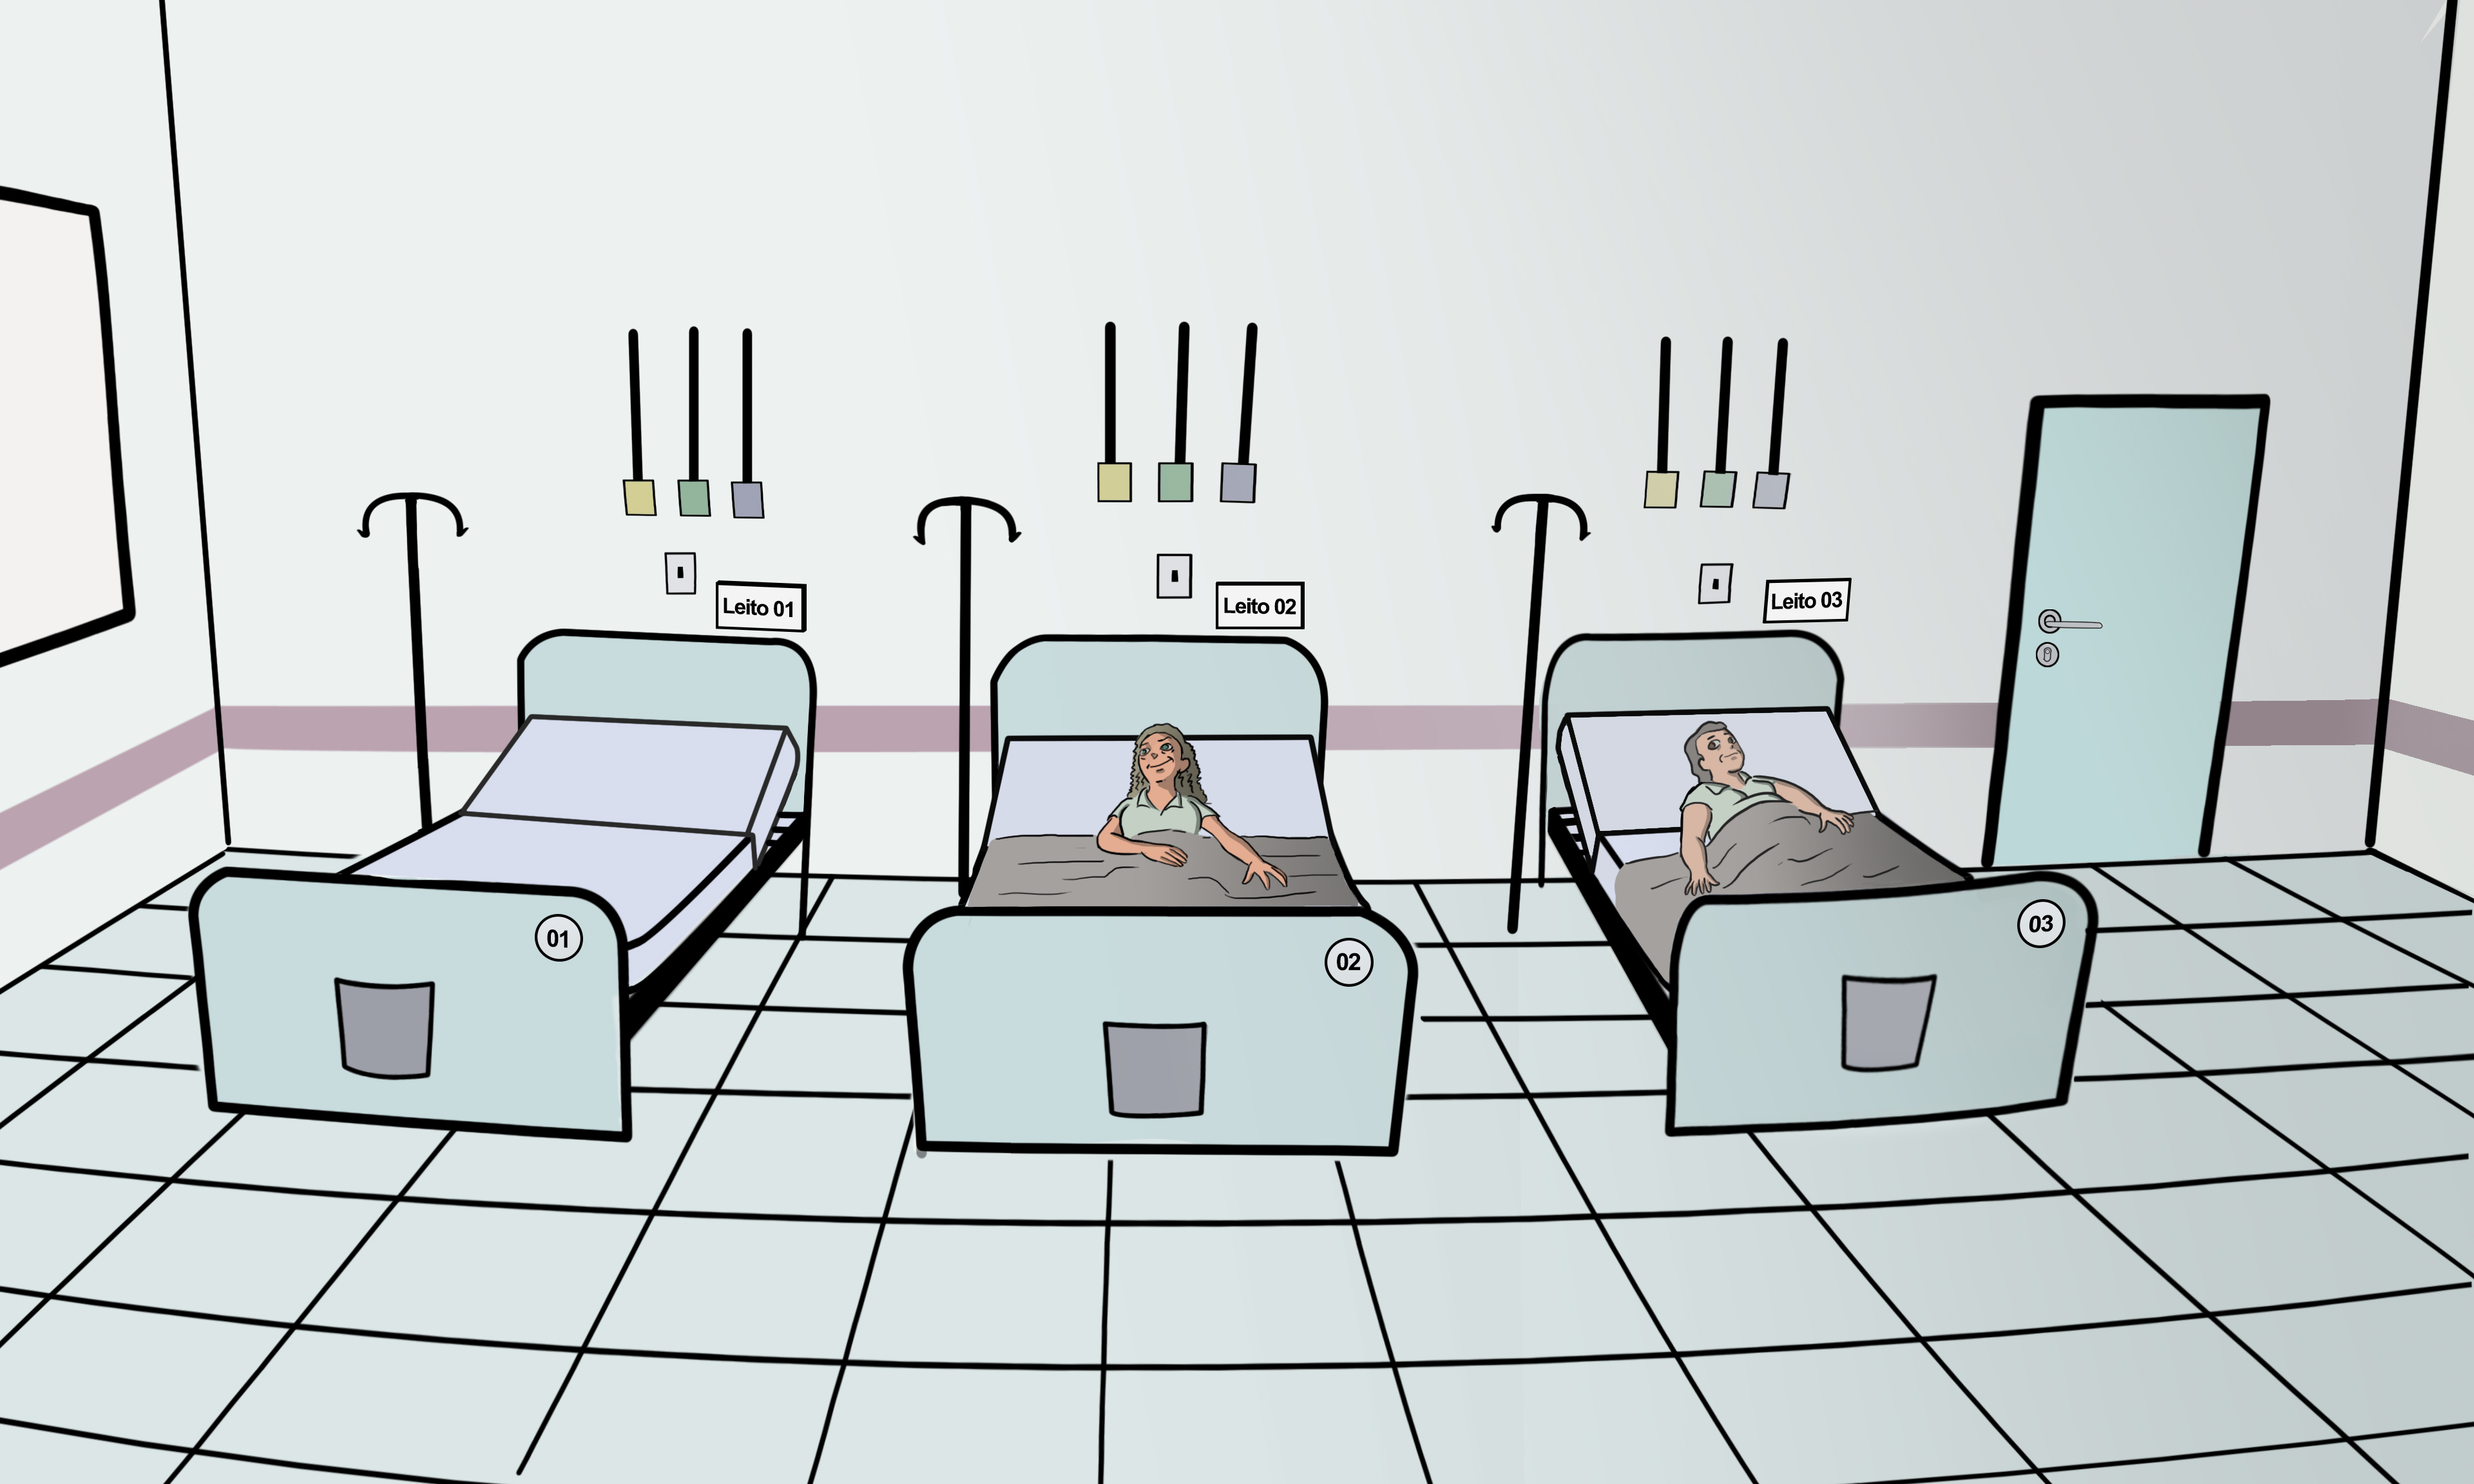
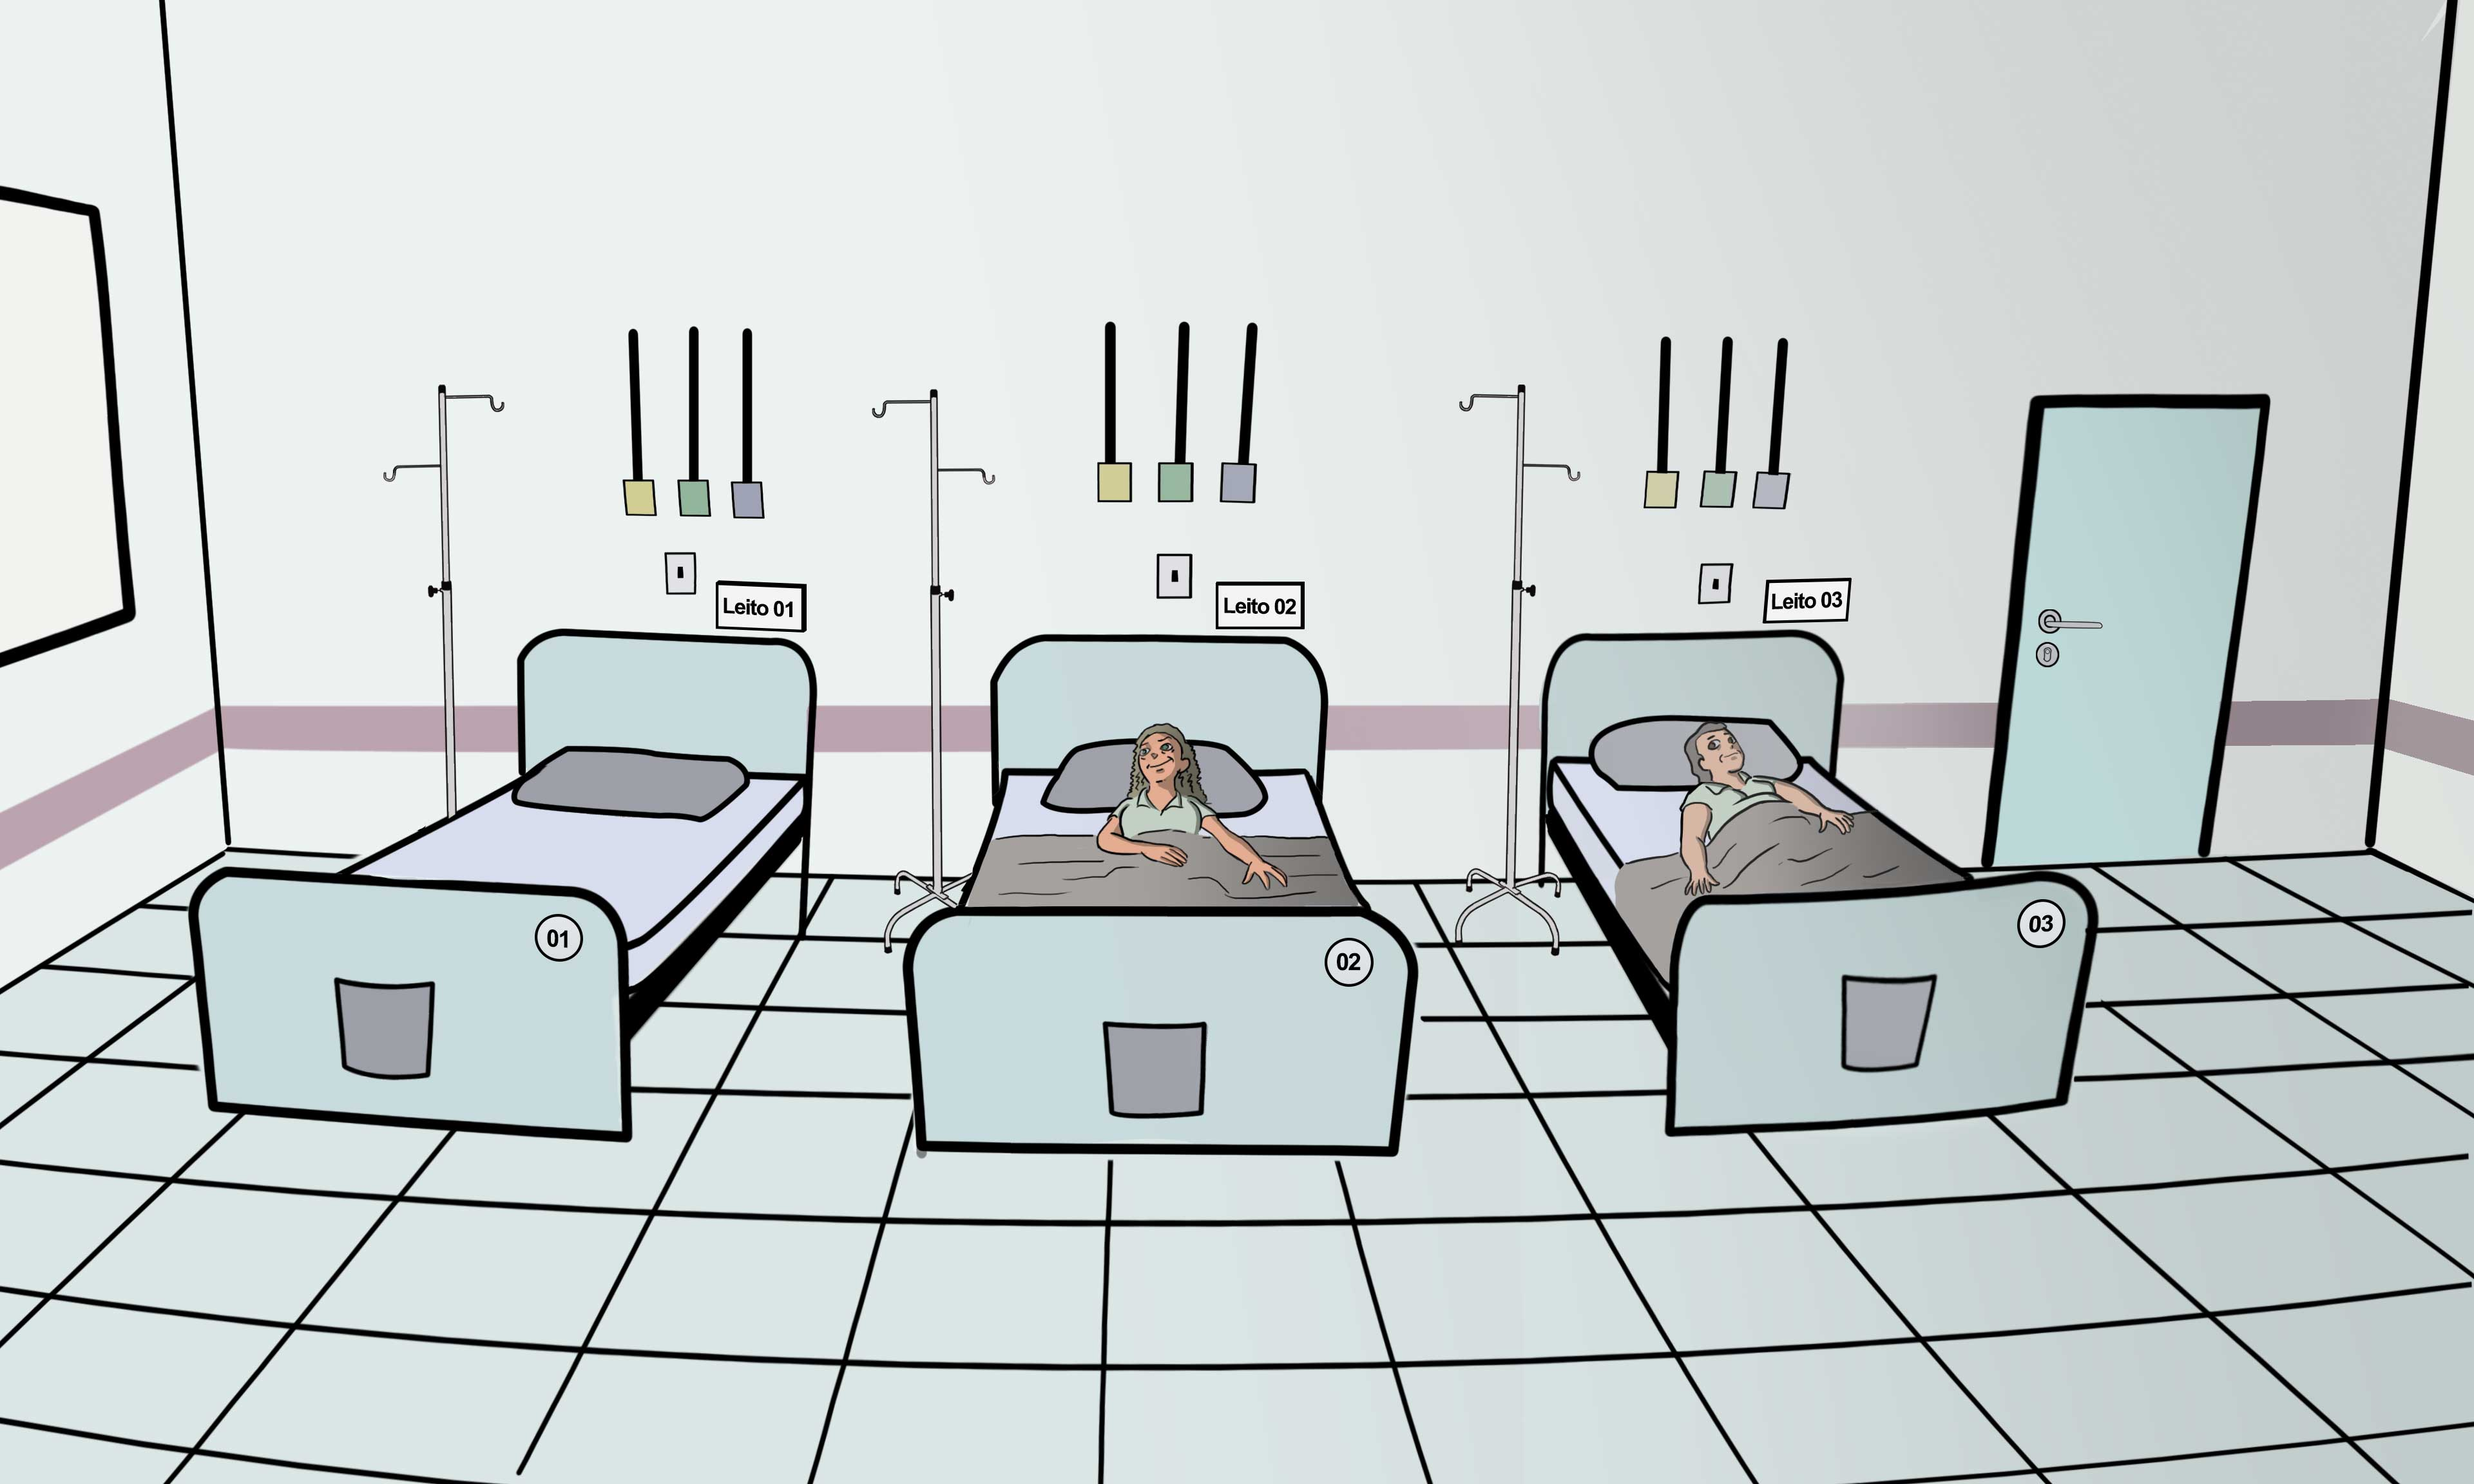
update all scenes

diff --git a/src/css/imageURLs.less b/src/css/imageURLs.less
@@ -267,8 +267,9 @@ This file is part of Cuidando Bem.
 @scene-bedroom-level0: url(../images/scenes/quartos0.jpg);
 @scene-bedroom-level1: url(../images/scenes/quartos1.jpg);
 @scene-bedroom-level1a: url(../images/scenes/quartos1a.jpg);
-@scene-bedroom-level1b: url(../images/scenes/quartos1.bjpg);
-@scene-bedroom-level1c: url(../images/scenes/quartos1.jcpg);
+// @scene-bedroom-level1a: url(../images/scenes/quartos1b.jpg);
+@scene-bedroom-level1b: url(../images/scenes/quartos1b.jpg);
+//@scene-bedroom-level1c: url(../images/scenes/quartos1.jcpg);
 @scene-bedroom-level2: url(../images/scenes/quartos2.jpg);
 @scene-bedroom-level3: url(../images/scenes/quartos3.jpg);
 @scene-bedroom-level4: url(../images/scenes/quartos4.jpg);

diff --git a/src/javascript/game/scripts/levels/fase2.js b/src/javascript/game/scripts/levels/fase2.js
@@ -274,7 +274,7 @@ define([ "levelsData", "Scene", "Action", "Level", "Dialog", "InteractiveObject"
 
         // Sala de leitos
         salaDeLeitos = new Scene("salaDeLeitos", "scene-salaDeLeitos")
-            .setCssClass("scene-bedroom-level1")
+            .setCssClass("scene-bedroom-level1a")
             .onLoad(function() {
                 console.log("Entrando na sala de leitos");
                 if ( core.flag("colocou_coxim") == true ) {

diff --git a/src/javascript/game/scripts/levels/fase4.js b/src/javascript/game/scripts/levels/fase4.js
@@ -509,7 +509,7 @@ define([ "levelsData", "Scene", "Action", "Level", "Dialog", "InteractiveObject"
 
 
         var alaFeminina = new Scene("alaMasculina", "Ala Masculina")
-            .setCssClass("scene-bedroom-level3")
+            .setCssClass("scene-bedroom-level2")
             .onLoad(function() {
                 console.log("Load scene: " + alaFeminina.getName() );
                 if ( core.flag("conversarPaciente") == true ) {

diff --git a/src/javascript/game/scripts/levels/fase8.js b/src/javascript/game/scripts/levels/fase8.js
@@ -862,6 +862,7 @@ define([ "levelsData", "Scene", "Action", "Level", "Dialog", "InteractiveObject"
 
 
         var alaMasculina = lib.scenes.alaMasculina.getClone()
+            .setCssClass("scene-bedroom-level6")
             .onLoad(function() {
                 console.log("Load scene: " + alaMasculina.getName() );
             });

diff --git a/src/javascript/game/scripts/levels/fase10.js b/src/javascript/game/scripts/levels/fase10.js
@@ -83,7 +83,7 @@ define([ "levelsData", "Scene", "Action", "Level", "Dialog", "InteractiveObject"
 
 
         var alaFeminina = new Scene("alaFeminina", "Ala Feminina")
-            .setCssClass("scene-bedroom-level9")
+            .setCssClass("scene-bedroom-level7")
             .onLoad(function() {
 
             });

diff --git a/src/javascript/game/scripts/levels/fase9.js b/src/javascript/game/scripts/levels/fase9.js
@@ -733,6 +733,7 @@ define([ "levelsData", "Scene", "Action", "Level", "Dialog", "InteractiveObject"
 
 
         alaFeminina = lib.scenes.alaFeminina.getClone()
+            .setCssClass("scene-bedroom-level7")
             .onLoad(function() {
                 console.log("Load scene: Ala feminina");
             })

diff --git a/src/css/scenes/scenesBackgroundImages.less b/src/css/scenes/scenesBackgroundImages.less
@@ -61,10 +61,10 @@ This file is part of Cuidando Bem.
   &:extend(.scene);
 }
 
-.scene-bedroom-level1c {
+/*.scene-bedroom-level1c {
   background-image: @scene-bedroom-level1c;
   &:extend(.scene);
-}
+}*/
 
 .scene-bedroom-level2 {
   background-image: @scene-bedroom-level2;

diff --git a/src/javascript/game/scripts/levels/fase7.js b/src/javascript/game/scripts/levels/fase7.js
@@ -71,6 +71,7 @@ define([ "levelsData", "Scene", "Action", "Level", "Dialog", "InteractiveObject"
 
 
         var alaFeminina = lib.scenes.alaFeminina.getClone()
+        .setCssClass("scene-bedroom-level5")
         .onLoad(function() {
 
         });
